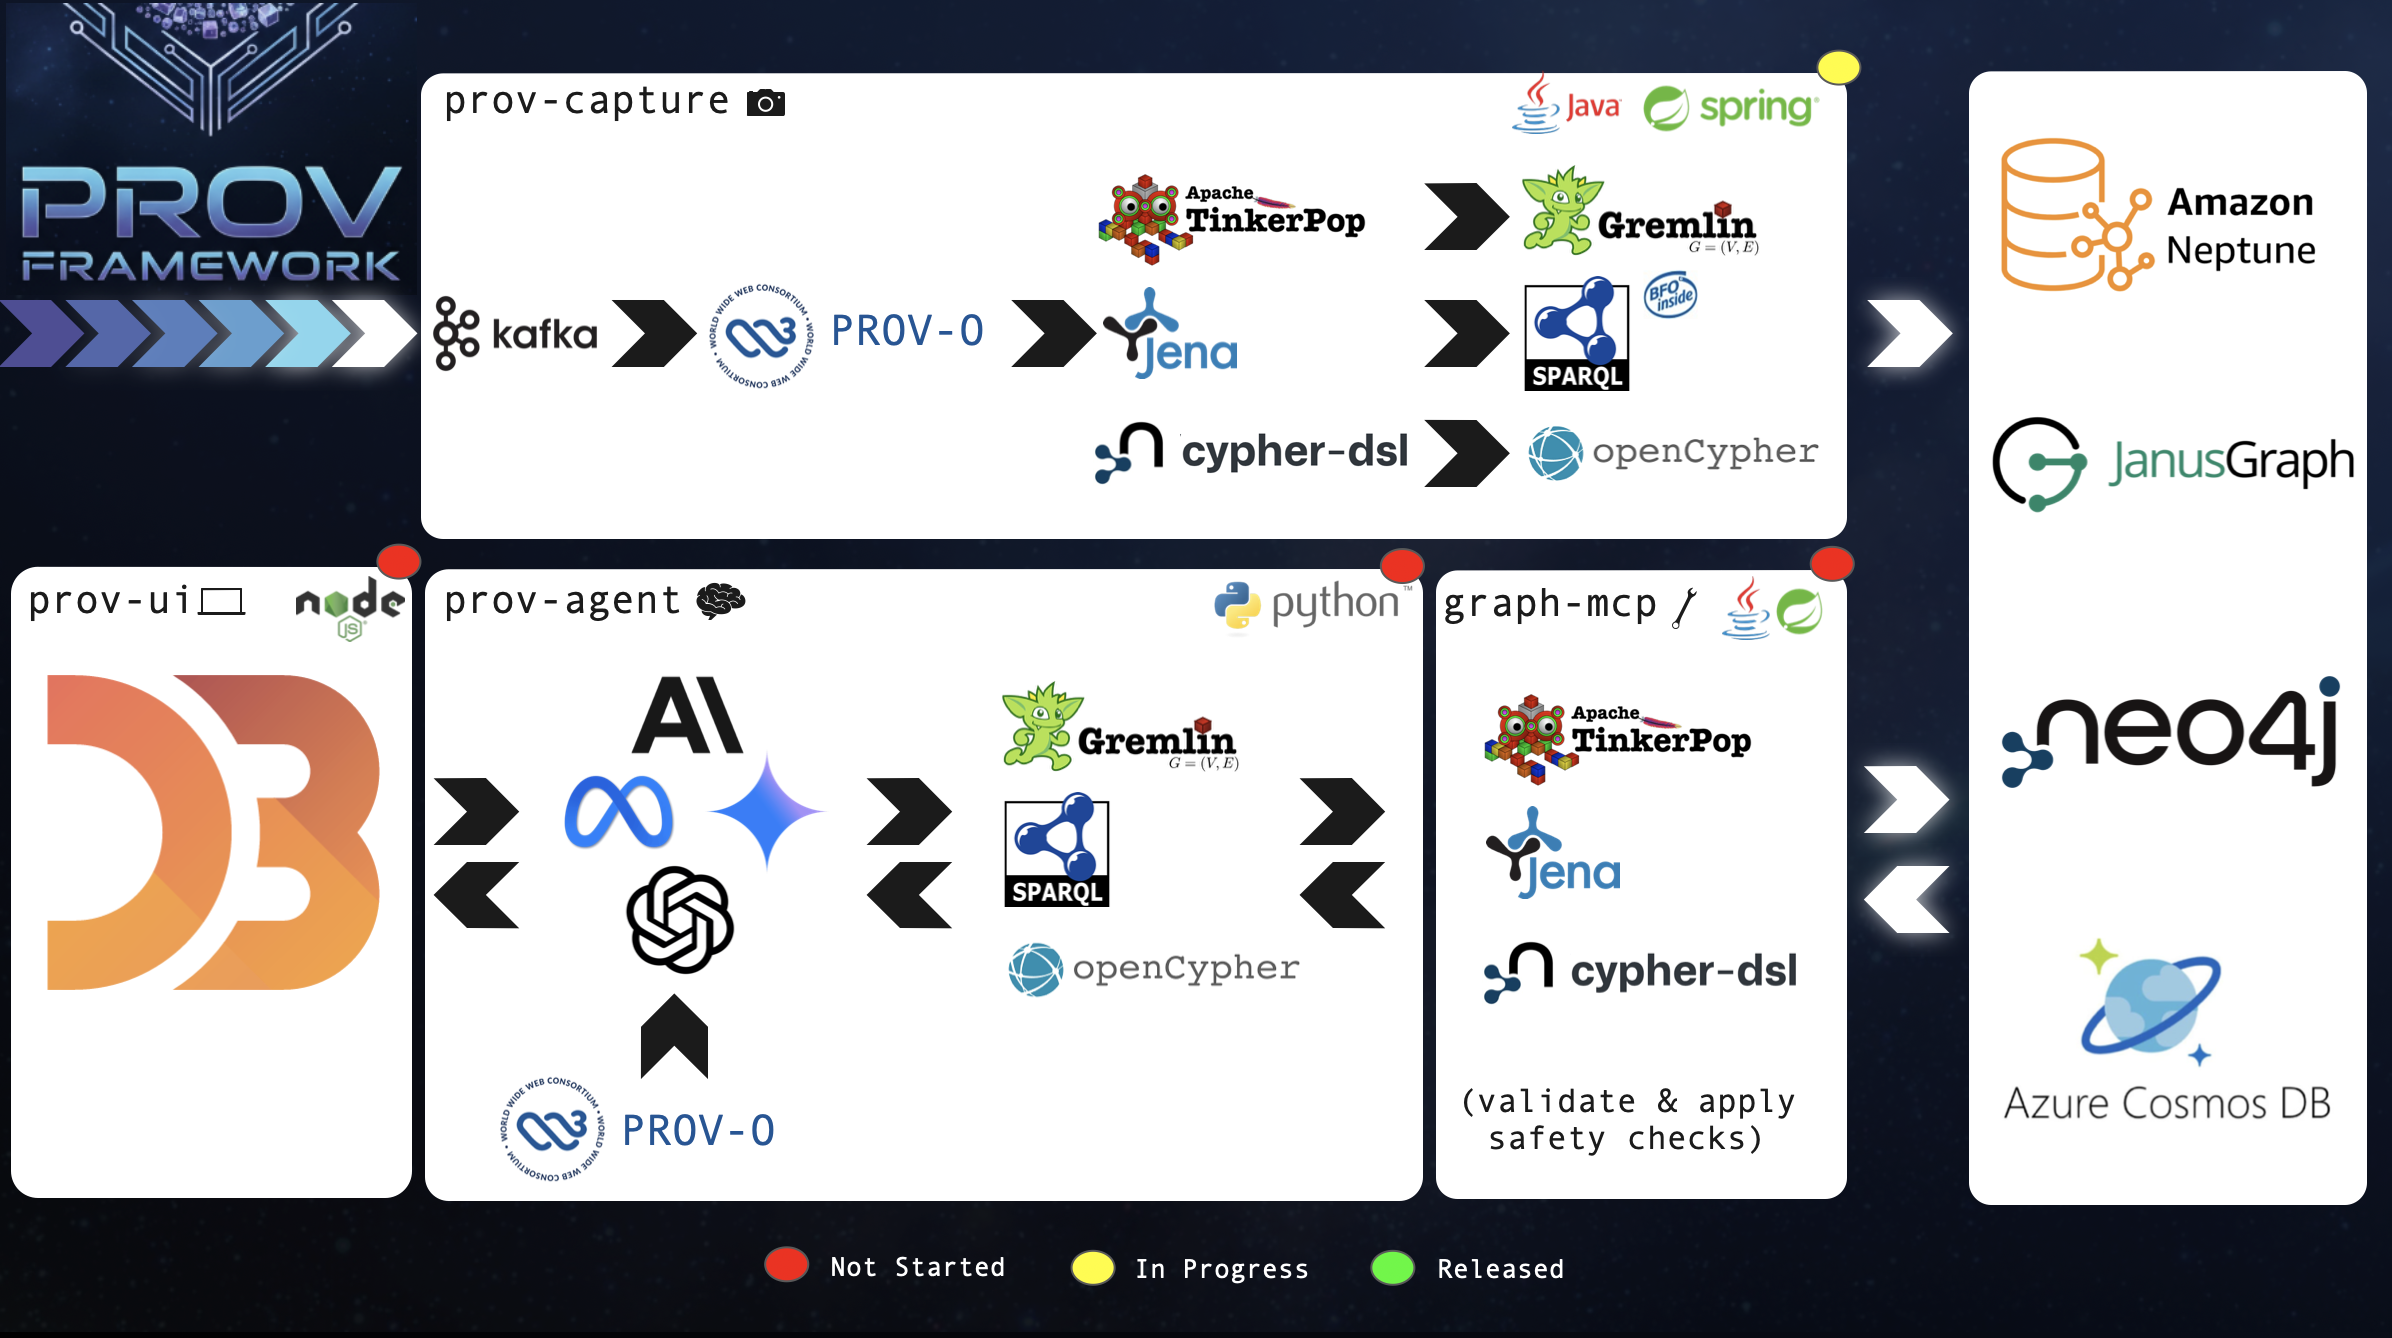
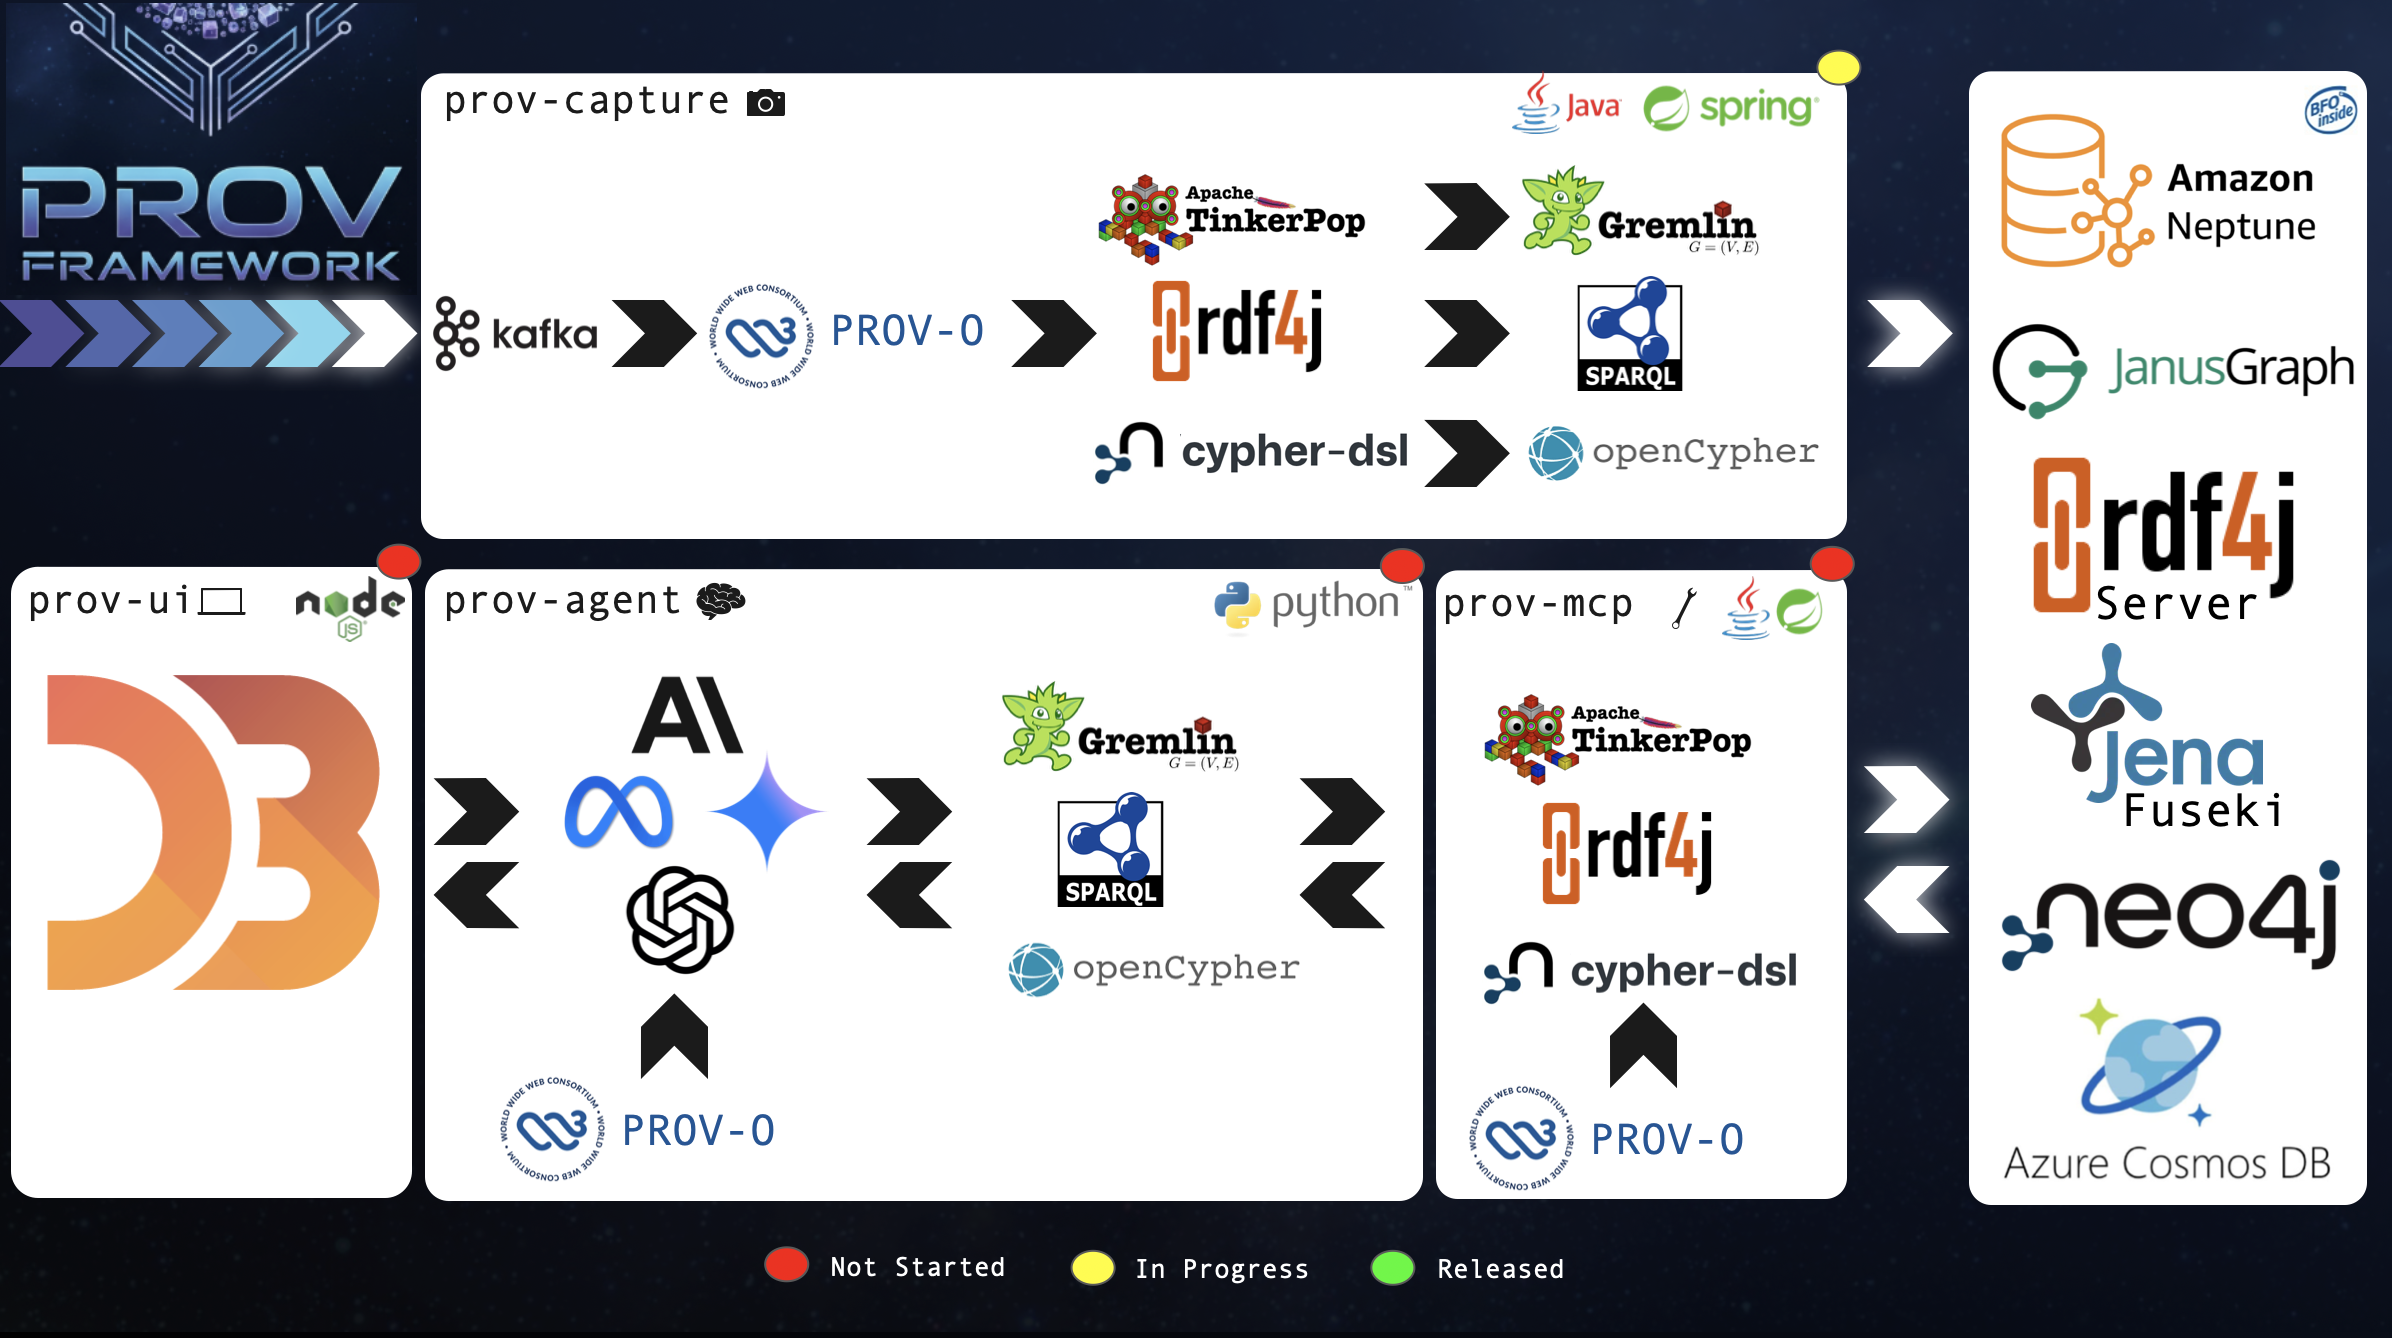
Switching from jena to rdf4j

diff --git a/profile/README.md b/profile/README.md
@@ -22,7 +22,7 @@ Closed source products often lead to problems when an organization has existing 
 Naming things is one of the two hard problems in computer science. The provenance ontology (https://www.w3.org/TR/prov-o/) provides a useful set of terms and structure. 
 
 ### Why Java?
-Java has the best support for libraries in the graph community. Neo4j (https://github.com/neo4j/neo4j), Apache Tinkerpop (https://github.com/apache/tinkerpop), Apache Jena (https://github.com/apache/jena), JanusGraph (https://github.com/JanusGraph/janusgraph), and BlazeGraph (https://github.com/blazegraph/database), which influenced AWS Neptune, are all built mostly in Java. That means Java is the first language that gets library and driver support in many cases, it is often the best maintained and optimized language library, and likely has the best community support. Additionally, this project is meant to be cloned and modified, so the language needs to be relatively popular. Java provides a good balance of popularity and performance.
+Java has the best support for libraries in the graph community. Neo4j (https://github.com/neo4j/neo4j), Apache Tinkerpop (https://github.com/apache/tinkerpop), Apache Jena (https://github.com/apache/jena), Eclipse RDF4J (https://github.com/eclipse-rdf4j/rdf4j), JanusGraph (https://github.com/JanusGraph/janusgraph), and BlazeGraph (https://github.com/blazegraph/database), which influenced AWS Neptune, are all built mostly in Java. That means Java is the first language that gets library and driver support in many cases, it is often the best maintained and optimized language library, and likely has the best community support. Additionally, this project is meant to be cloned and modified, so the language needs to be relatively popular. Java provides a good balance of popularity and performance.
 
 ### What is BFO Inside?
 Basic Formal Ontology (https://github.com/bfo-ontology) is an upper level ontology that some organization choose to extend from when creating domain specific ontologies. Work has already been done to map PROV to BFO (https://github.com/BFO-Mappings/PROV-to-BFO). This project simply brings attention to the BFO PROV-O mapping in the architecture diagram as a possible benefit to those opting for a semantic graph in an organization that already leverages BFO or is looking to start. 
